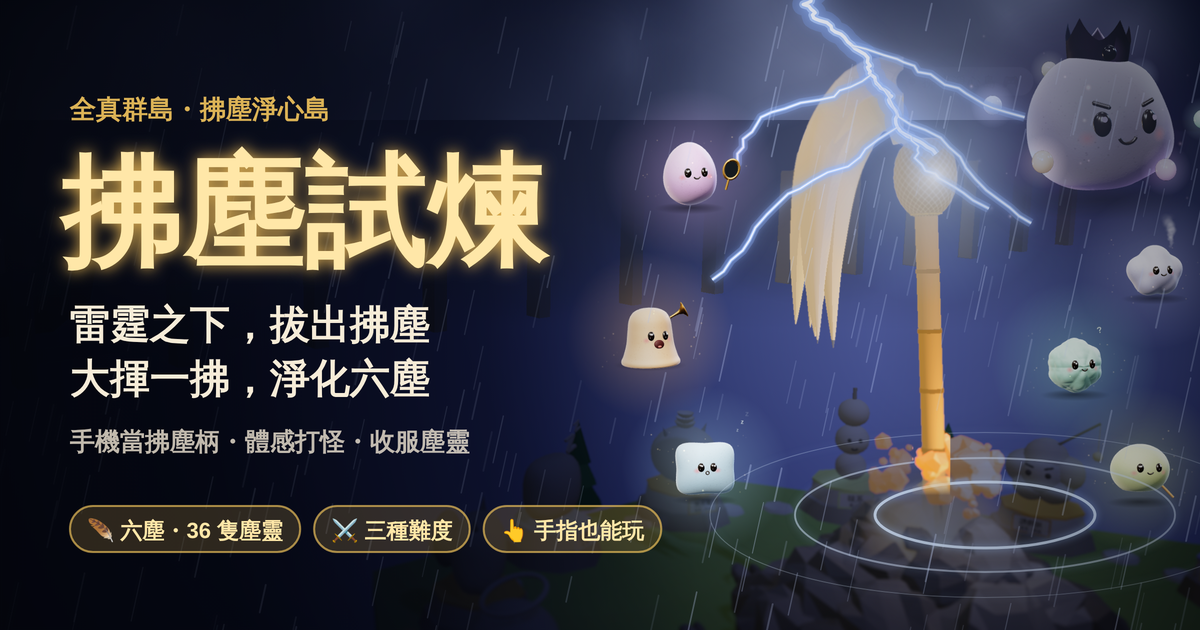
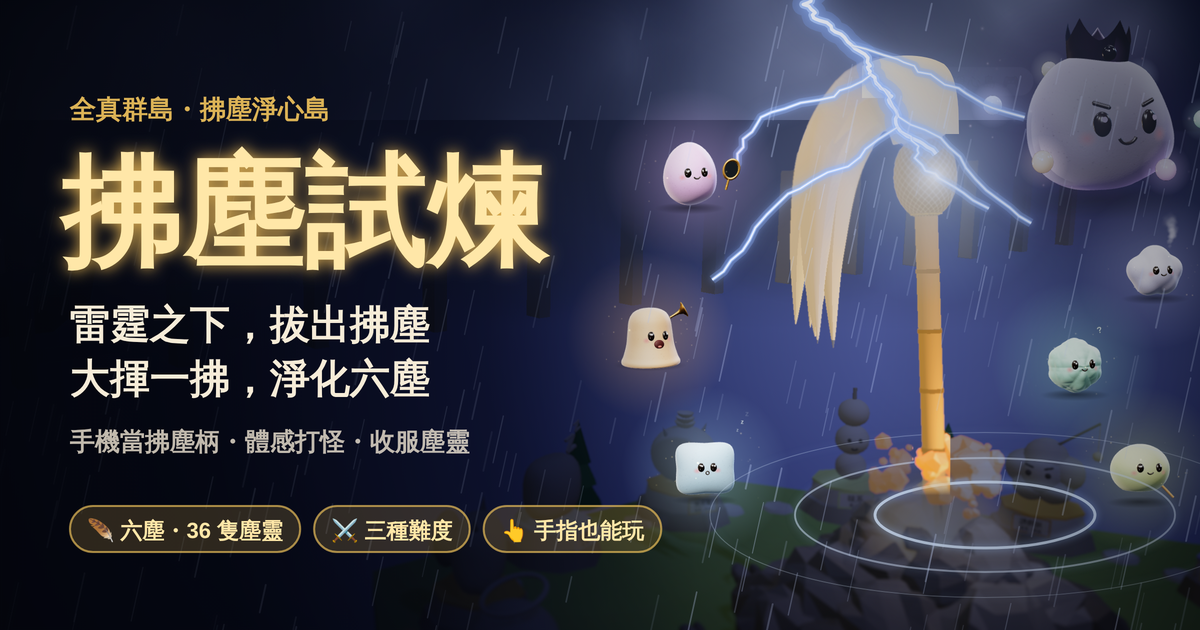
群島 v261111.09：預覽圖馬尾與網罩頭連成一體
Claude-Session: https://claude.ai/code/session_01CYjxtAJEbe8aNJZsdY8jB5

Changed region(s): [[0.7092, 0.0905, 0.8017, 0.2111]]

diff --git a/islands/fuchen-game/index.html b/islands/fuchen-game/index.html
@@ -19,8 +19,8 @@
 <meta property="og:title" content="大揮一拂，淨化六塵｜拂塵試煉・全真群島">
 <meta property="og:description" content="手機就是拂塵柄：看清符印、聽到「揮」就整隻手臂大揮一拂，把六塵的塵靈淨化、收進淨心錄。三種難度，沒有動作感測也能用手指畫。">
 <meta property="og:url" content="https://steven4dev.github.io/yiguandao-2027-course/islands/fuchen-game/">
-<meta property="og:image" content="https://steven4dev.github.io/yiguandao-2027-course/islands/fuchen-game/og-fuchen.png?v=9">
-<meta property="og:image:secure_url" content="https://steven4dev.github.io/yiguandao-2027-course/islands/fuchen-game/og-fuchen.png?v=9">
+<meta property="og:image" content="https://steven4dev.github.io/yiguandao-2027-course/islands/fuchen-game/og-fuchen.png?v=10">
+<meta property="og:image:secure_url" content="https://steven4dev.github.io/yiguandao-2027-course/islands/fuchen-game/og-fuchen.png?v=10">
 <meta property="og:image:type" content="image/png">
 <meta property="og:image:width" content="1200">
 <meta property="og:image:height" content="630">
@@ -255,7 +255,7 @@ body[data-phase="count"] .hud,body[data-phase="count"] .bottom{opacity:.3}
 
 <script>
 'use strict';
-const VERSION = 'v261111.07';
+const VERSION = 'v261111.08';
 const D2R = Math.PI / 180, R2D = 180 / Math.PI;
 const $ = s => document.querySelector(s);
 $('#ver').textContent = '拂塵試煉 ' + VERSION;

diff --git a/islands/index.html b/islands/index.html
@@ -696,7 +696,7 @@ body.fcT-hide .card,body.fcT-hide .dock,body.fcT-hide #navPop,body.fcT-hide .tag
   <p class="count hits-count" id="hitsLine">👣 已經有 <img id="hitsImg" alt="累計造訪人次" height="18" src="https://hits.sh/steven4dev.github.io/yiguandao-2027-course/islands.svg?style=flat-square&amp;label=%E4%BA%BA%E6%AC%A1&amp;color=d9a43a&amp;labelColor=3a3f5a" onerror="this.parentNode.hidden = true"> 來逛過群島</p>
   <div class="boards"><a class="board" href="https://forms.gle/PG7yAsyz1r4unXXZ8" target="_blank" rel="noopener">🛶 我要登島</a><button class="board board-visit" id="visitBtn" type="button">👀 我要觀摩</button></div>
   <span class="status" id="status" data-state="backup" role="button" tabindex="0" title="點一下重新讀取"><i></i><span id="statusText">讀取資料中…</span></span>
-  <span class="ver">v261111.08</span>
+  <span class="ver">v261111.09</span>
   </div></div>
 </div>
 

diff --git a/islands/CHANGELOG.md b/islands/CHANGELOG.md
@@ -3,6 +3,9 @@
 網頁左上角品牌卡最下面的淡色小字就是版本編號，格式跟褪下仙衣一樣是 `v年月日.當天第幾版`，例如 `v261025.01` 代表 2026/10/25 的第 1 版。
 打開網頁看到的編號和這裡最上面的一筆相同，就代表已經更新成功；如果還是舊編號，等幾分鐘再重新整理。
 
+## v261111.09
+- 🖼 預覽圖修正「網罩頭與馬尾像斷開」：馬尾拱過頂端蓋在網罩頭上的那一段，先前被誤清掉了（把它當成殘留方塊）；現在還給它，並補上被島牌擋住的右上肩，馬尾與網罩頭連成一體。預覽圖網址 `?v=` 加到 10。
+
 ## v261111.08
 - 🖼 預覽圖修正「拂塵像斷掉」：之前握把底部做了淡出，和岩堆交接處像斷成兩截；現在握把一路連到岩堆裡，插入處有碎石與光，而貼地漣漪改成畫在握把後面（不再橫過握把）。預覽圖網址 `?v=` 加到 9。
 
